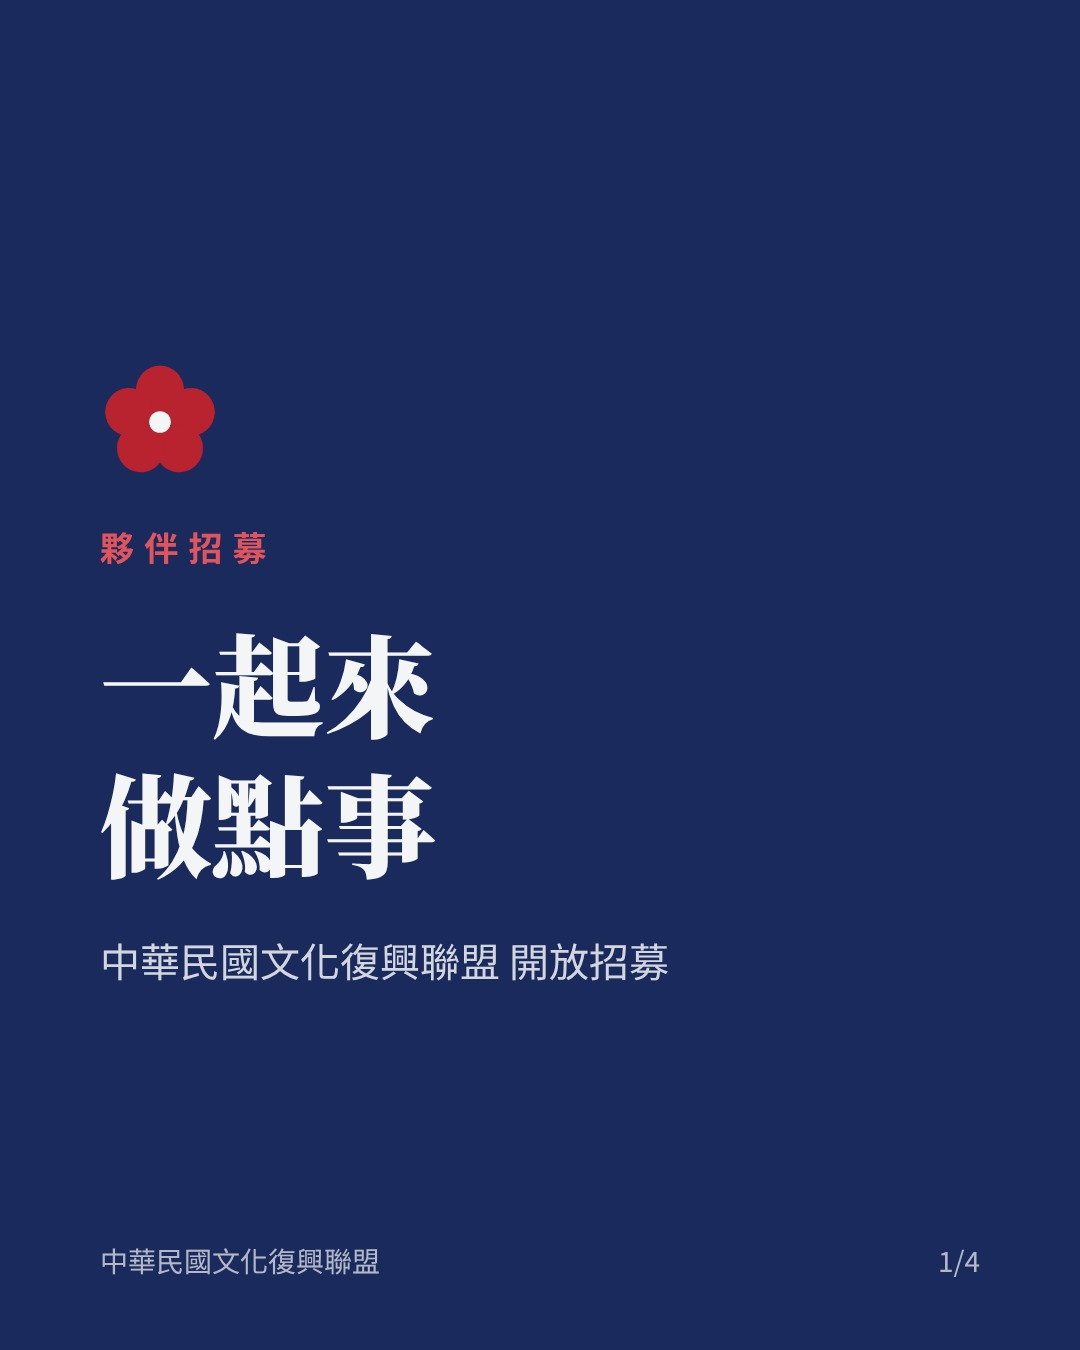
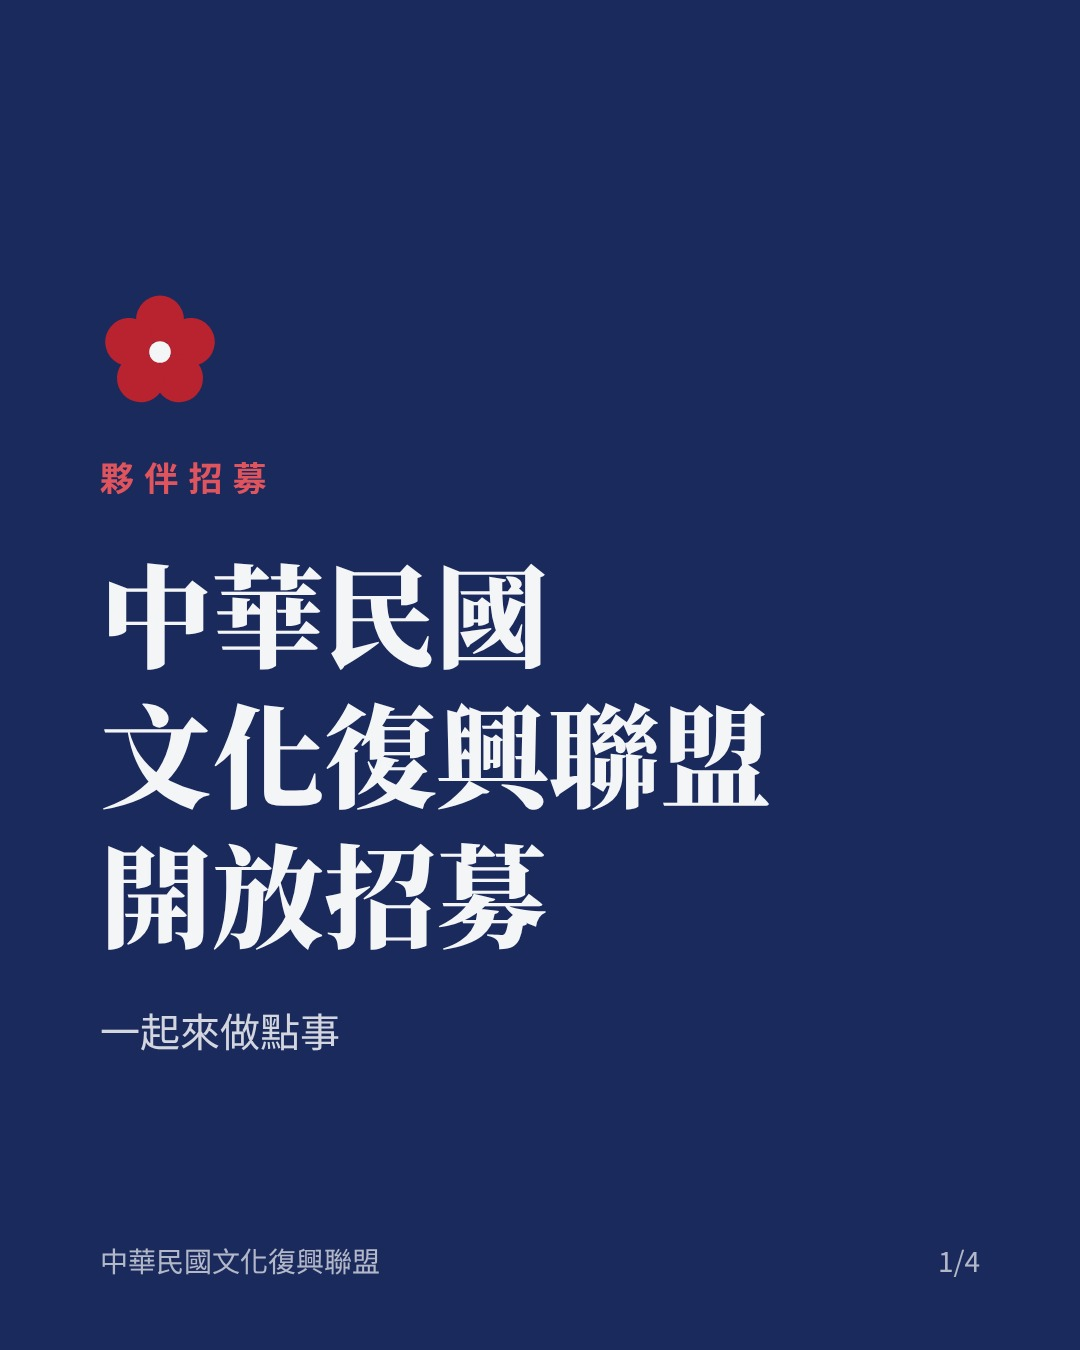
招募封面標題與副標互換
Claude-Session: https://claude.ai/code/session_01TexqmyAAmVL75pyU1EWzVc

Changed region(s): [[0.0917, 0.2178, 0.7028, 0.7778]]

diff --git a/content.py b/content.py
@@ -231,7 +231,7 @@ ARTICLES = [
 <p>填寫<a href="https://docs.google.com/forms/d/e/1FAIpQLScI6Qo_JO9kfKFR99v3GITa6_ukZjVGKZ2G2DKmdboDi1ZyJw/viewform">報名表單</a>，約 5 分鐘。真實姓名只由本部保管，對外可使用化名。我們會在三週內以 Email 回覆你。</p>
 """,
         "ig_slides": [
-            {"kind": "cover", "kicker": "夥伴招募", "head": "一起來\n做點事", "sub": "中華民國文化復興聯盟 開放招募"},
+            {"kind": "cover", "kicker": "夥伴招募", "head": "中華民國\n文化復興聯盟\n開放招募", "sub": "一起來做點事"},
             {"kind": "list", "head": "四個部門", "items": ["宣傳部：社群經營、回覆留言與私訊", "公關部：洽談合作、媒體窗口", "活動部：發想並舉辦線上線下活動", "編輯部：撰文、寫腳本、查證史料"]},
             {"kind": "list", "head": "我們在找這樣的你", "items": ["認同中華民國，願意捍衛自由民主", "會寫、會剪、會設計、會企劃，或只是有熱情", "每週能投入 2 小時以上", "學生、社會人士、退休族都歡迎"]},
             {"kind": "text", "head": "怎麼加入", "body": "點個人檔案連結，\n在網站「加入我們」填寫表單，\n大約 5 分鐘。\n\n真實姓名只由本部保管，\n對外可使用化名。\n\n我們會在三週內以 Email 回覆你。"},
